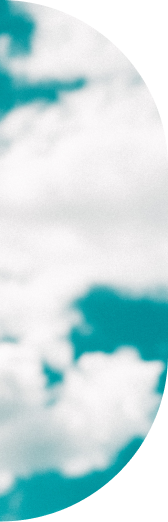
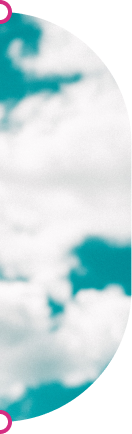
Add/high quality background image (#67728)
* Add LiB high quality images

* Add Newsletter high quality images

* Change breakpoint for larger images

diff --git a/client/signup/tailored-flow-processing-screen/style.scss b/client/signup/tailored-flow-processing-screen/style.scss
@@ -76,9 +76,12 @@
 				background-size: auto 50%, auto 35%;
 			}
 
-			@include break-large {
+			@include break-huge {
 				background-size: auto 80%, auto 45%;
 				background-position-y: 70%, 100%;
+				background-image:
+					url(calypso/assets/images/onboarding/newsletter-processing-left-desktop.png),
+					url(calypso/assets/images/onboarding/newsletter-processing-right-desktop.png);
 			}
 		}
 	}
@@ -95,9 +98,13 @@
 			background-attachment: fixed;
 			background-size: auto 25%, auto 25%;
 
-			@include break-large {
+			@include break-huge {
 				background-size: auto 55%, auto 55%;
 				background-position-y: 90%, 10%;
+
+				background-image:
+					url(calypso/assets/images/onboarding/link-in-bio-processing-left-desktop.png),
+					url(calypso/assets/images/onboarding/link-in-bio-processing-right-desktop.png);
 			}
 		}
 	}

diff --git a/client/landing/stepper/declarative-flow/internals/steps-repository/intro/styles.scss b/client/landing/stepper/declarative-flow/internals/steps-repository/intro/styles.scss
@@ -13,9 +13,13 @@
 		background-position-y: 100%, 100px;
 		background-size: auto 30%, auto 50%;
 
-		@include break-large {
+
+		@include break-huge {
 			background-size: auto 55%, auto 80%;
 			background-position-y: 100%, 136px;
+			background-image:
+				url(calypso/assets/images/onboarding/newsletter-intro-left-desktop.png),
+				url(calypso/assets/images/onboarding/newsletter-intro-right-desktop.png);
 		}
 	}
 
@@ -30,9 +34,12 @@
 		background-attachment: fixed;
 		background-size: auto 15%, auto 15%;
 
-		@include break-large {
+		@include break-huge {
 			background-size: auto 25%, auto 25%;
 			background-position-y: 85%, 10%;
+			background-image:
+				url(calypso/assets/images/onboarding/link-in-bio-intro-left-desktop.png),
+				url(calypso/assets/images/onboarding/link-in-bio-intro-right-desktop.png);
 		}
 	}
 

diff --git a/client/landing/stepper/declarative-flow/internals/steps-repository/launchpad/style.scss b/client/landing/stepper/declarative-flow/internals/steps-repository/launchpad/style.scss
@@ -353,8 +353,11 @@
 		background-position-x: 0%, 100%;
 		background-position-y: 90%, 10%;
 
-		@include break-large {
+		@include break-huge {
 			background-size: auto 50%, auto 50%;
+			background-image:
+				url(calypso/assets/images/onboarding/link-in-bio-processing-left-desktop.png),
+				url(calypso/assets/images/onboarding/link-in-bio-processing-right-desktop.png);
 		}
 	}
 
